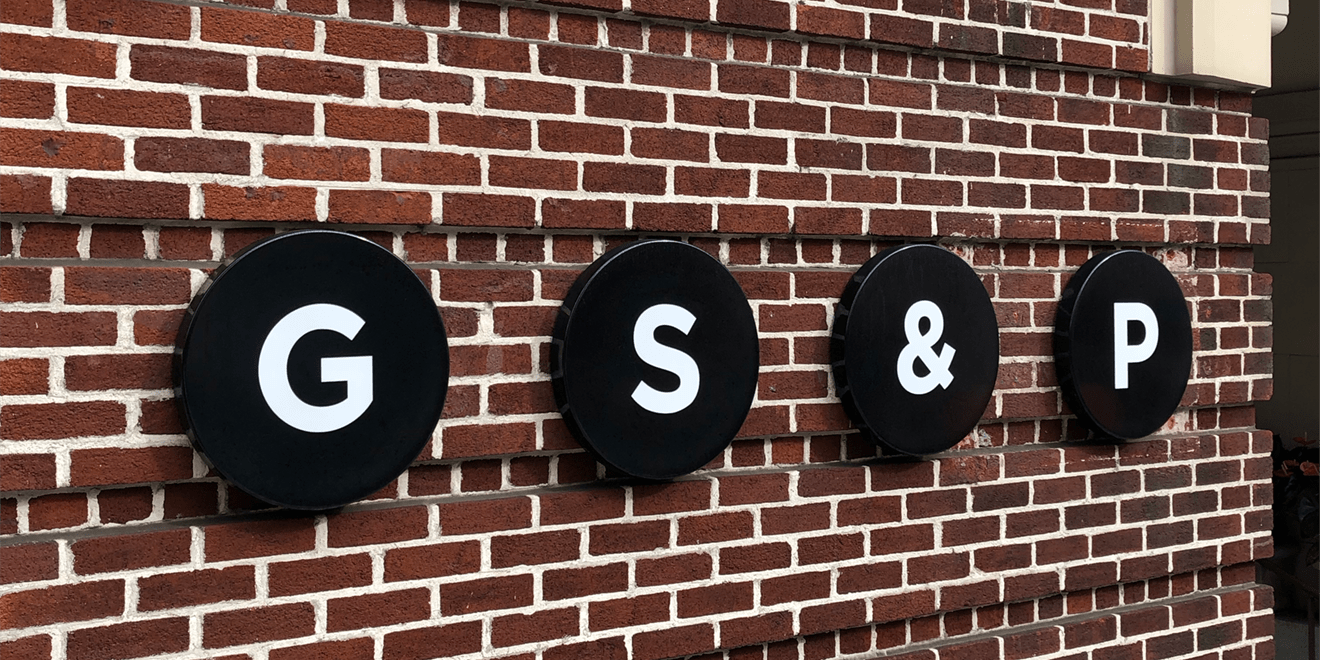
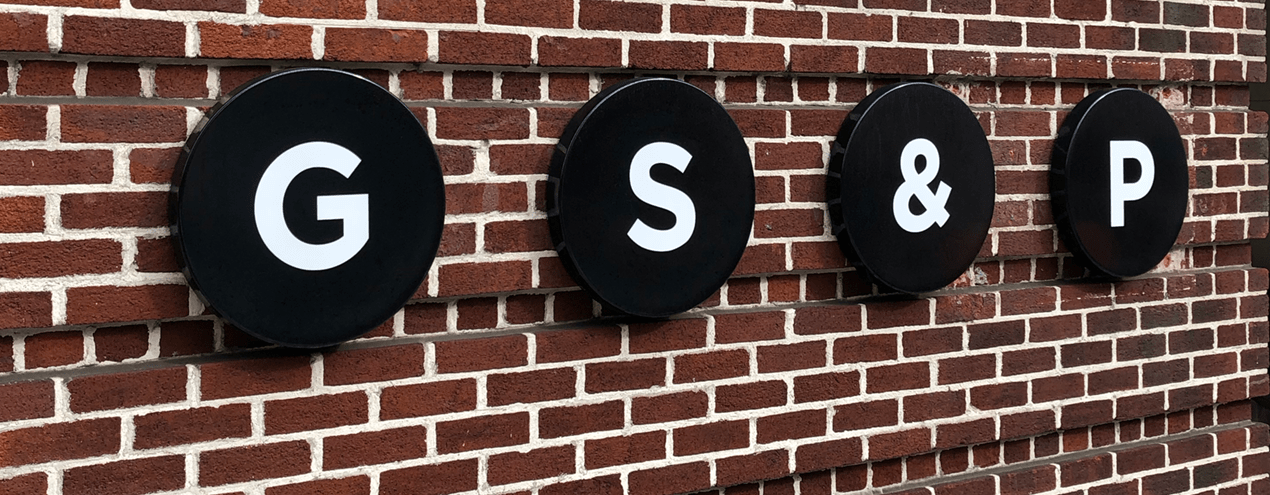
update cover

diff --git a/content/home/blank.md b/content/home/blank.md
@@ -11,7 +11,7 @@ design:
   background:
     image: gsp.png
     image_darken: 1
-    image_size: actual
+    image_size: cover
     image_position: center
     image_parallax: true
     text_color_light: true
